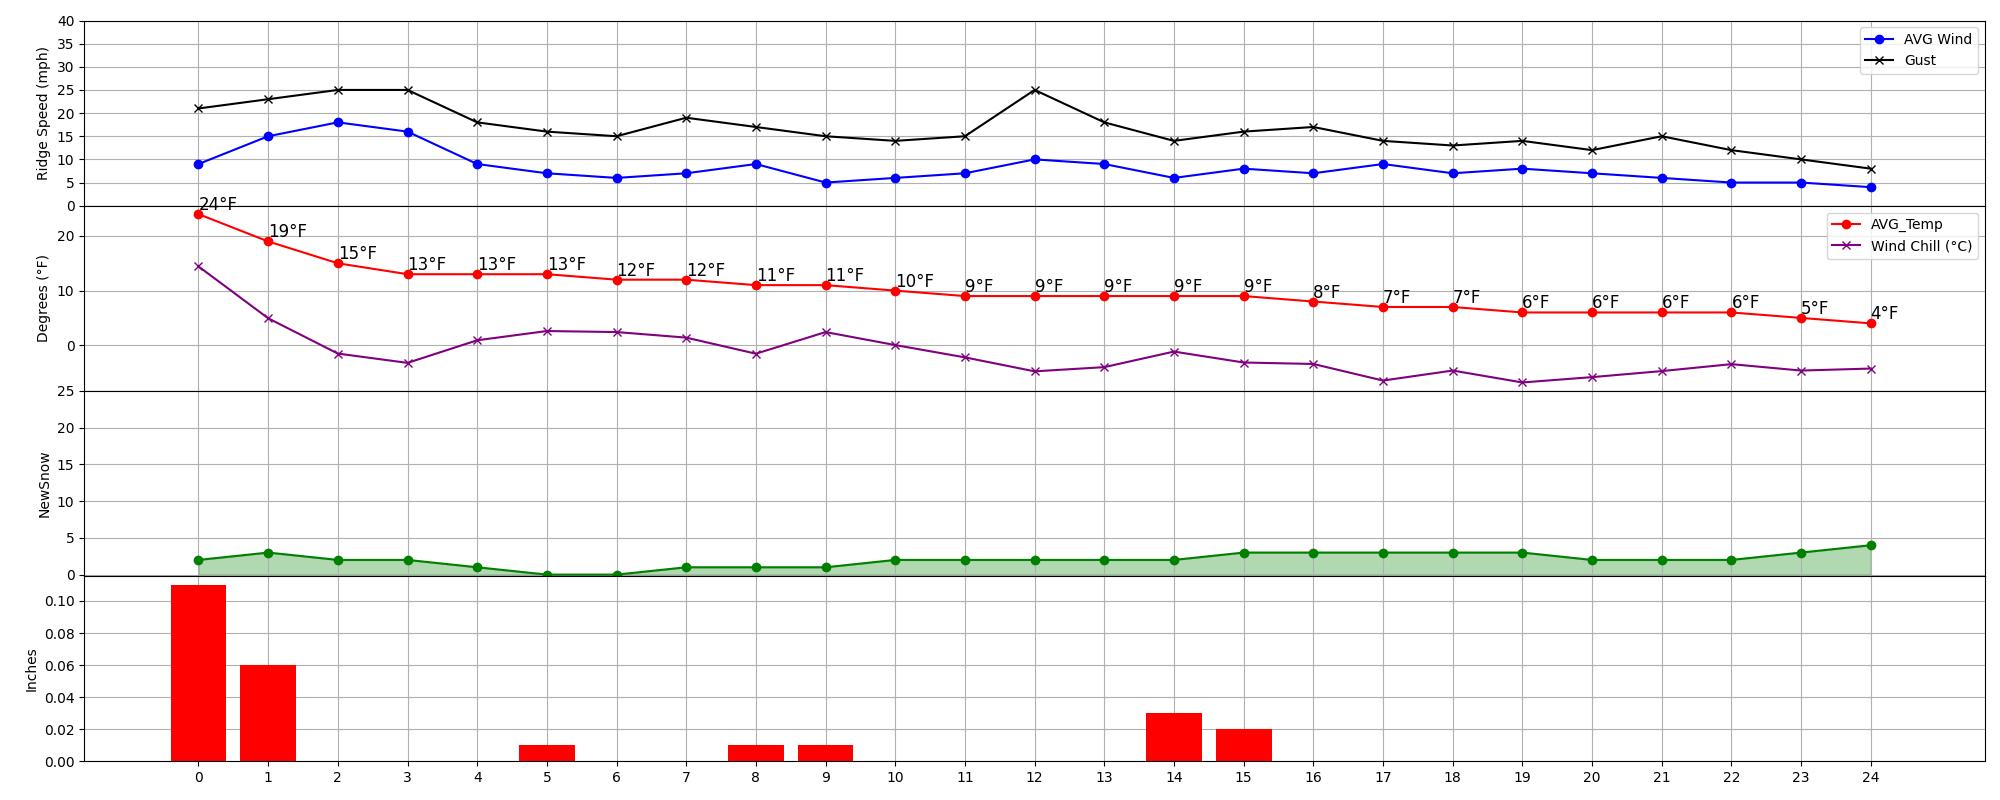
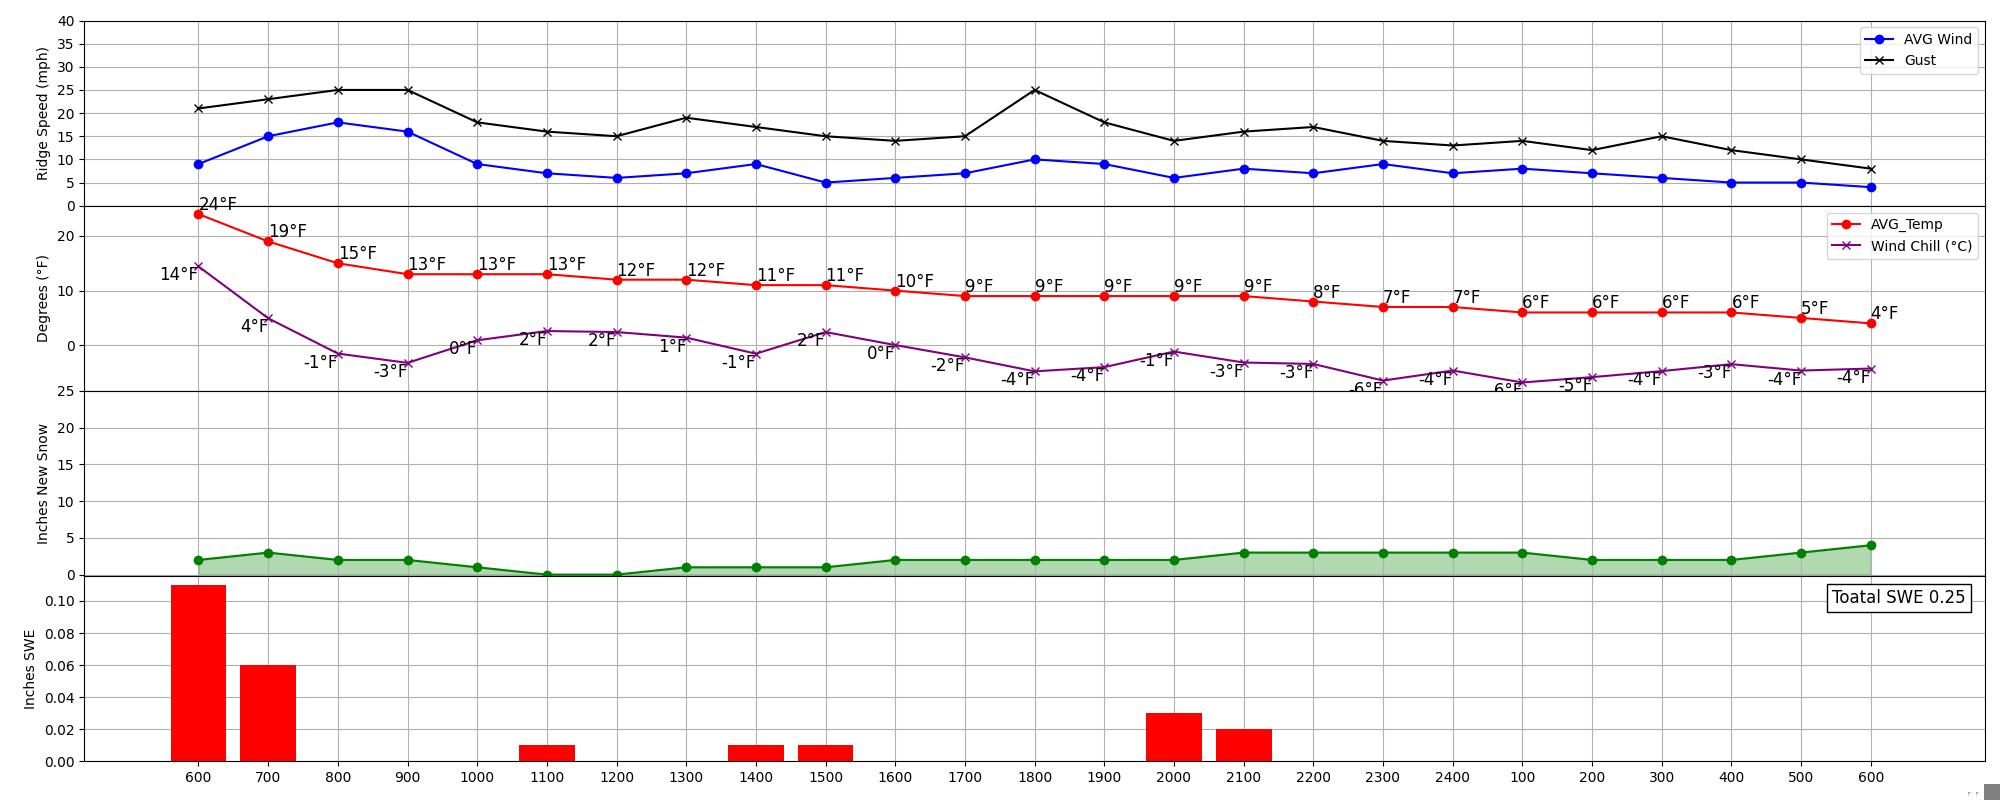
graph improvements

diff --git a/Multi_Graph.py b/Multi_Graph.py
@@ -30,6 +30,7 @@ def calculate_wind_chill(temperature, wind_speed):
 def plot_data_from_csv():
     # Reading the data from the CSV content
     data = pd.read_csv("weather_data.csv")
+    hrlables = list(data['Hour'])
     data['Hour'] = range(len(data))                                   ######___-----##_
 
     data['Wind Chill (°C)'] = calculate_wind_chill(data['AVG_Temp'], data['Ridge_Speed'])
@@ -67,6 +68,8 @@ def plot_data_from_csv():
 
     for i in range(len(hour)):
         axs[1].text(hour[i], avg_temp[i], f'{avg_temp[i]}°F', fontsize=12, va='bottom', ha='left')
+        axs[1].text(hour[i], wind_chill[i], f'{int(wind_chill[i])}°F', fontsize=12, va='top', ha='right')
+
         #axs[1].text(hour[i], wind_chill[i], f'{wind_chill[i]}°C', fontsize=12, va='top', ha='left')
 
 
@@ -76,18 +79,29 @@ def plot_data_from_csv():
     axs[2].fill_between(data['Hour'], data['NewSnow'], color='green', alpha=0.3)
     #axs[2].set_title('NewSnow')
     axs[2].set_xlabel('Hour')
-    axs[2].set_ylabel('NewSnow' )#, rotation='horizontal', labelpad=20)
+    axs[2].set_ylabel('Inches New Snow' )#, rotation='horizontal', labelpad=20)
     #axs[2].set_yticks([0,2,4,6,8,10,12,14,16,18,20,22,24])
     axs[2].set_yticks([0,5,10,15,20,25])
     axs[2].grid(True)
 
     # Setting x-axis labels for every hour
     axs[2].set_xticks(data['Hour'])
-
+    axs[2].set_xticklabels(hrlables)
 
     axs[3].bar(data['Hour'], data['H2O'], color='red', zorder = 2 )# marker='o',
+
+
+    label_text = f'Toatal SWE {sum(list(data["H2O"]))}'
+    label_color = 'black'
+    bbox_props = dict(boxstyle="square,pad=0.3", edgecolor=label_color, facecolor="white")
+
+    # Add the labeled box to the top right corner
+    axs[3].text(0.99, 0.93, label_text, transform=axs[3].transAxes,
+                fontsize=12, color=label_color, ha='right', va='top', bbox=bbox_props)
+
+
     #axs[3].set_title('Snow Water Equiv.')
-    axs[3].set_ylabel('Inches')#, rotation='horizontal', labelpad=20)
+    axs[3].set_ylabel('Inches SWE')#, rotation='horizontal', labelpad=20)
 
     # Add additional notes or text on the side of the graph
     #fig.text(0.01, 0.52, 'Your notes here', ha='left', va='center', rotation='horizontal')
